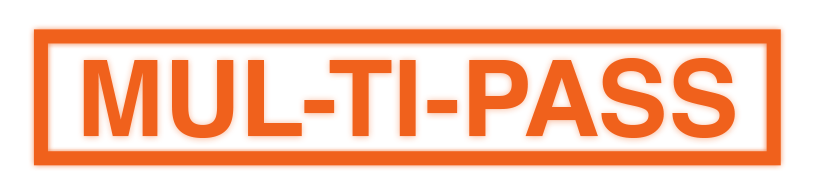
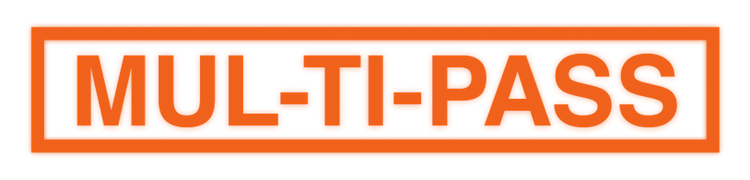
orange multipass width

diff --git a/index.html b/index.html
@@ -43,7 +43,7 @@
 	</script>
 	<script src="js/sphere_face.js"></script>
 	<div id="multipass" class="centered">
-	<button id="multipass_btn" onclick="init()" style="background-image: url(img/multipass.png); height: 189px; width: 780px; border: none; opacity: 0.5;" ></button>
+	<button id="multipass_btn" onclick="init()" style="background-image: url(img/multipass.png); height: 189px; width: 750px; border: none; opacity: 0.5;" ></button>
 	</div>
 
 </body>
